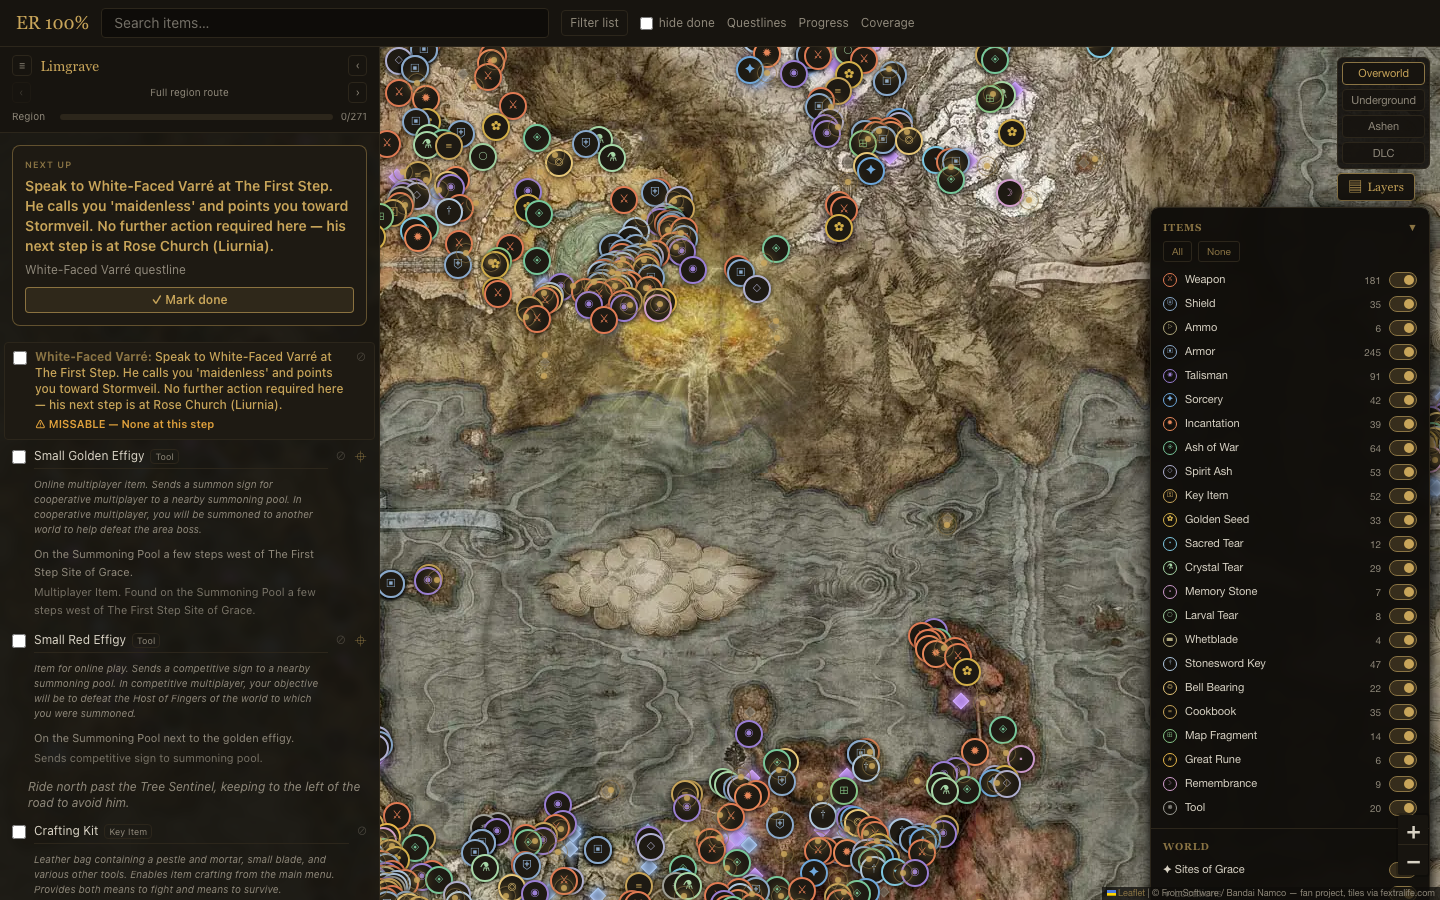
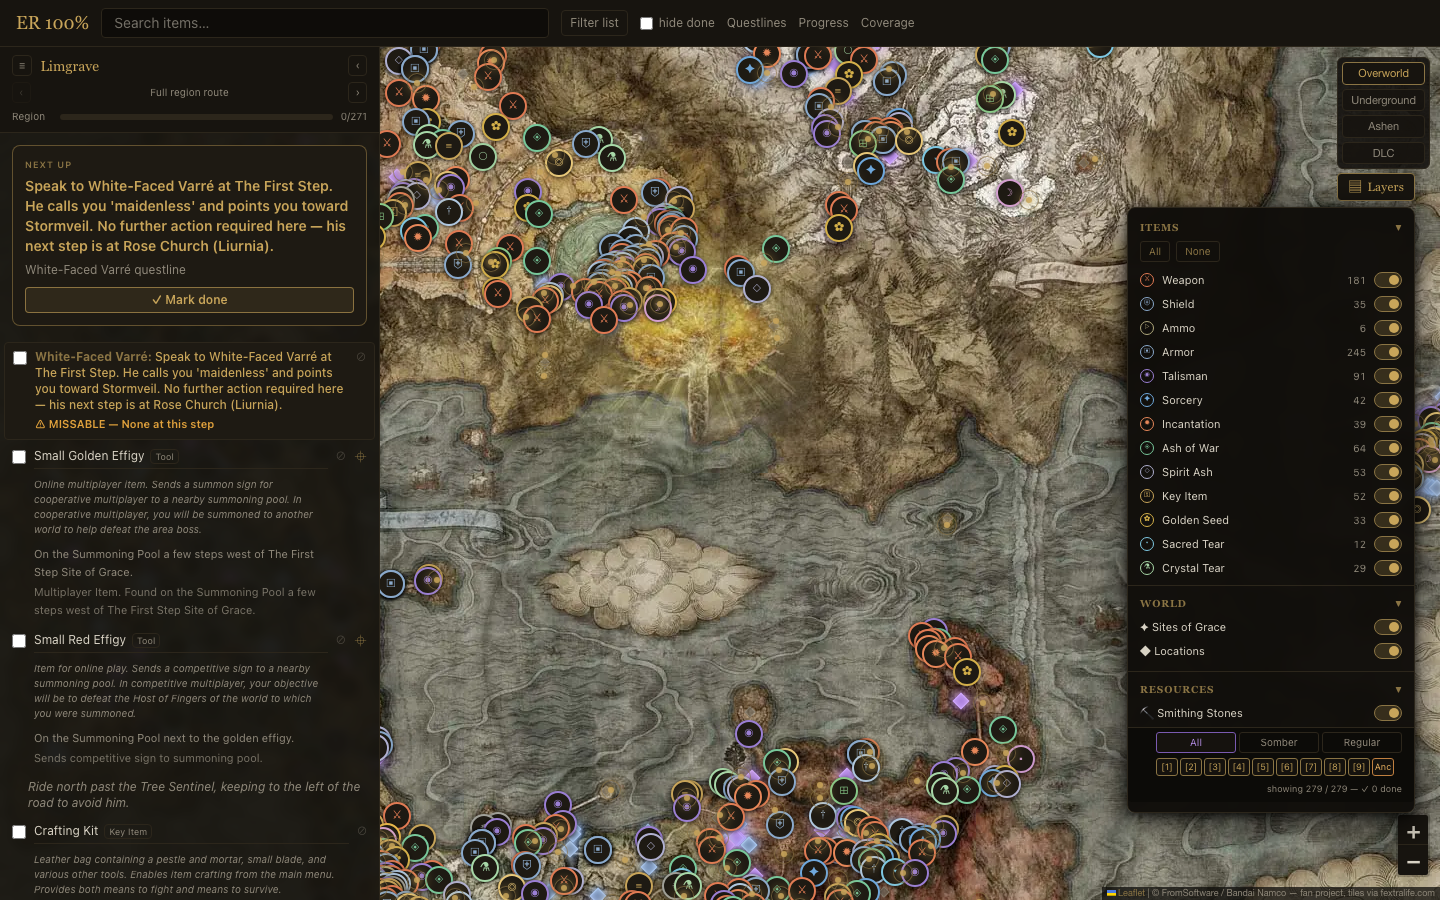
fix: Layers panel stays in viewport, smithing controls reachable
Portal the floating layers panel to document.body (fixed positioning)
so it escapes Leaflet's overflow:hidden container — the panel and all
its sections (Resources → Smithing Stones, kind segmented control, level
checkboxes) are now fully within the viewport and scrollable on both
desktop and mobile (390px).

- src/components/MapView.tsx: append panel to document.body; compute
  top/right/max-height from triggerBtn.getBoundingClientRect() on open
  and re-clamp on window resize; remove panel from body on unmount.
- src/index.css: .er-layers-panel is now position:fixed, z-index:9999;
  Items section body capped at 38vh with internal scroll so World +
  Resources headers are always reachable; mobile ≤480px override makes
  panel near full-width with 70vh max-height.
- scripts/verify-map.mjs: 7 new checks — smithing filter section bounding
  rect ≤ window.innerHeight (desktop + mobile 390px), kind buttons
  visible, Resources section in DOM. Total 73/73 green (was 66/66).

Changed region(s): [[0.75, 0.2178, 1.0, 1.0]]

diff --git a/src/components/MapView.tsx b/src/components/MapView.tsx
@@ -358,6 +358,8 @@ export default function MapView({ initialLayer, activeLegId, nextUpId }: MapView
     redrawOverlays()
 
     // ── Unified "▤ Layers" control (top-right) ───────────────────────────────
+    // Track the floating panel element so it can be removed from body on unmount.
+    let layersPanelEl: HTMLDivElement | null = null
     const LayersControl = L.Control.extend({
       onAdd() {
         // Outer container — holds the trigger button + floating panel
@@ -391,8 +393,33 @@ export default function MapView({ initialLayer, activeLegId, nextUpId }: MapView
         labelSpan.textContent = 'Layers'
 
         // ── Floating panel ─────────────────────────────────────────────────
-        const panel = L.DomUtil.create('div', 'er-layers-panel', wrapper) as HTMLDivElement
+        // Panel is appended to document.body so it escapes Leaflet's
+        // overflow:hidden container — no clipping regardless of panel height.
+        const panel = L.DomUtil.create('div', 'er-layers-panel') as HTMLDivElement
         panel.id = 'er-layers-panel'
+        document.body.appendChild(panel)
+        layersPanelEl = panel
+
+        // Clamp the panel into the viewport using fixed positioning anchored
+        // to the trigger button's bounding rect.
+        function positionPanel() {
+          const btnRect = triggerBtn.getBoundingClientRect()
+          const margin = 8
+          const panelWidth = 288 // matches CSS width
+          const top = btnRect.bottom + 6
+          // Right-align to button's right edge, but don't overflow left edge
+          const right = Math.max(margin, window.innerWidth - btnRect.right)
+          const maxHeight = window.innerHeight - top - margin
+          panel.style.position = 'fixed'
+          panel.style.top = `${top}px`
+          panel.style.right = `${right}px`
+          panel.style.left = 'auto'
+          panel.style.width = `${panelWidth}px`
+          panel.style.maxHeight = `${Math.max(200, maxHeight)}px`
+        }
+
+        // Re-clamp on resize while open
+        let resizeHandler: (() => void) | null = null
 
         // Toggle panel open/close
         let panelOpen = false
@@ -400,12 +427,19 @@ export default function MapView({ initialLayer, activeLegId, nextUpId }: MapView
           panelOpen = true
           panel.classList.add('open')
           triggerBtn.classList.add('open')
+          positionPanel()
           rebuildPanel()
+          resizeHandler = () => { if (panelOpen) positionPanel() }
+          window.addEventListener('resize', resizeHandler)
         }
         function closePanel() {
           panelOpen = false
           panel.classList.remove('open')
           triggerBtn.classList.remove('open')
+          if (resizeHandler) {
+            window.removeEventListener('resize', resizeHandler)
+            resizeHandler = null
+          }
         }
         L.DomEvent.on(triggerBtn, 'click', (e) => {
           L.DomEvent.stopPropagation(e)
@@ -740,6 +774,11 @@ export default function MapView({ initialLayer, activeLegId, nextUpId }: MapView
       map.off('zoomend', updateZoomClasses)
       unregisterFocus()
       unsubscribe()
+      // Remove the portalled layers panel from document.body on unmount
+      if (layersPanelEl && layersPanelEl.parentNode) {
+        layersPanelEl.parentNode.removeChild(layersPanelEl)
+        layersPanelEl = null
+      }
       map.remove()
       mapRef.current = null
     }

diff --git a/src/index.css b/src/index.css
@@ -748,20 +748,20 @@ body {
   line-height: 1;
 }
 
-/* The popover panel */
+/* The popover panel — portalled to document.body, fixed so it escapes
+   Leaflet's overflow:hidden container. JS sets top/right/max-height live. */
 .er-layers-panel {
   display: none;
-  position: absolute;
-  top: calc(100% + 6px);
-  right: 0;
-  width: 280px;
-  max-height: calc(100vh - 120px);
+  position: fixed;
+  /* top / right / max-height set inline by JS positionPanel() */
+  width: 288px;
   overflow-y: auto;
+  overflow-x: hidden;
   background: rgba(14, 12, 9, 0.97);
   border: 1px solid #2c261b;
   border-radius: 8px;
   box-shadow: 0 8px 32px rgba(0, 0, 0, 0.85), 0 2px 8px rgba(0, 0, 0, 0.6);
-  z-index: 2000;
+  z-index: 9999;
   padding: 6px 0;
   backdrop-filter: blur(6px);
 }
@@ -769,14 +769,25 @@ body {
   display: block;
 }
 
-/* Scrollbar styling for the panel */
-.er-layers-panel::-webkit-scrollbar {
+/* Items section body gets its own capped height so World + Resources
+   sections are always reachable without scrolling the full item list. */
+#items-section .er-layers-section__body {
+  max-height: 38vh;
+  overflow-y: auto;
+  overflow-x: hidden;
+}
+
+/* Scrollbar styling for the panel and its scrollable sub-regions */
+.er-layers-panel::-webkit-scrollbar,
+#items-section .er-layers-section__body::-webkit-scrollbar {
   width: 4px;
 }
-.er-layers-panel::-webkit-scrollbar-track {
+.er-layers-panel::-webkit-scrollbar-track,
+#items-section .er-layers-section__body::-webkit-scrollbar-track {
   background: transparent;
 }
-.er-layers-panel::-webkit-scrollbar-thumb {
+.er-layers-panel::-webkit-scrollbar-thumb,
+#items-section .er-layers-section__body::-webkit-scrollbar-thumb {
   background: #2c261b;
   border-radius: 2px;
 }
@@ -963,4 +974,21 @@ body {
   margin: 8px auto 4px;
   cursor: row-resize;
   flex-shrink: 0;
+}
+
+/* ── Mobile overrides for the Layers panel ──────────────── */
+@media (max-width: 480px) {
+  /* On small screens JS may place it off-screen to the right; override to be
+     near full-width and clamp height to avoid going below the fold. */
+  .er-layers-panel {
+    /* JS sets top via positionPanel(); override width + right for mobile */
+    width: calc(100vw - 16px) !important;
+    right: 8px !important;
+    left: 8px !important;
+    max-height: 70vh !important;
+  }
+  /* Items section inner scroll: smaller cap on mobile */
+  #items-section .er-layers-section__body {
+    max-height: 28vh;
+  }
 }
